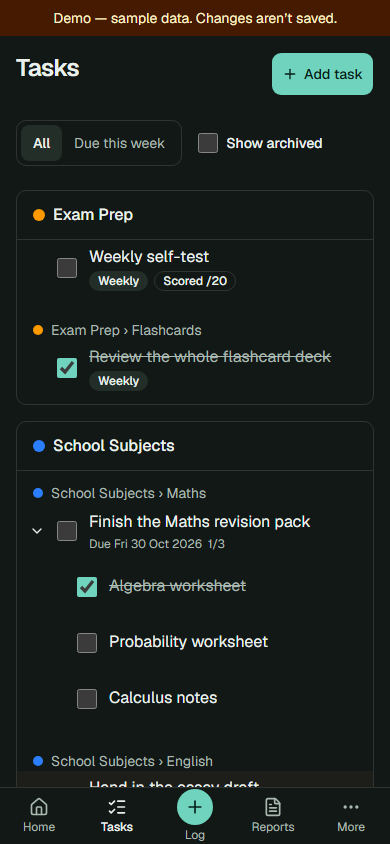
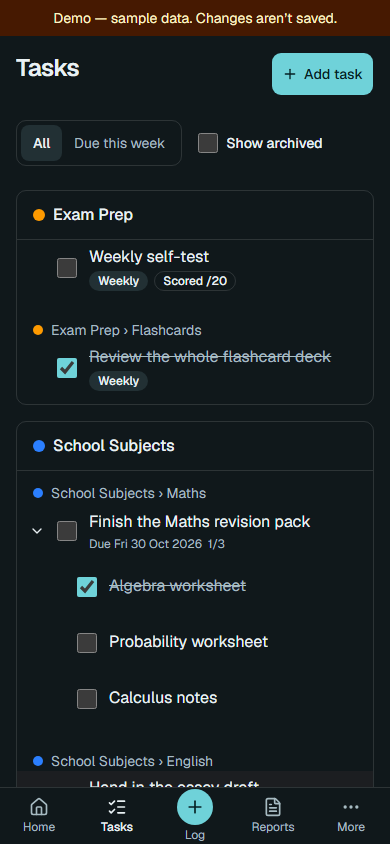
chore: cooler palette and AA-safe hover tints

diff --git a/src/index.css b/src/index.css
@@ -60,40 +60,40 @@
   --series-6: #008300;
   --series-7: #4a3aa7;
   --series-8: #e34948;
-  /* The Streakwise palette: warm paper and sand neutrals, deep teal for actions, pale mint as
-     the highlight. Every pair below meets WCAG AA (4.5:1) in both themes. */
-  --background: #fbf9f4;
-  --foreground: #1b2622;
+  /* The Streakwise palette: cool paper and slate neutrals, deep teal-cyan for actions, pale ice
+     blue as the highlight. Every pair below meets WCAG AA (4.5:1) in both themes. */
+  --background: #f7fafb;
+  --foreground: #16232a;
   --card: #ffffff;
-  --card-foreground: #1b2622;
+  --card-foreground: #16232a;
   --popover: #ffffff;
-  --popover-foreground: #1b2622;
-  --primary: #0c5f57;
-  --primary-foreground: #f4fbf8;
-  --secondary: #eee7da;
-  --secondary-foreground: #27332d;
-  --muted: #f2ede2;
-  --muted-foreground: #55635c;
-  --accent: #ddefe9;
-  --accent-foreground: #0d453f;
-  --destructive: #b02a22;
-  --border: #e4ded1;
-  --input: #d9d2c3;
-  --ring: #0c5f57;
+  --popover-foreground: #16232a;
+  --primary: #0e5f6e;
+  --primary-foreground: #f2fbfc;
+  --secondary: #e7eff2;
+  --secondary-foreground: #1f2f36;
+  --muted: #edf3f5;
+  --muted-foreground: #526570;
+  --accent: #dbedf1;
+  --accent-foreground: #0b404b;
+  --destructive: #a82232;
+  --border: #dde7ea;
+  --input: #d1dde1;
+  --ring: #0e5f6e;
   --chart-1: oklch(0.87 0 0);
   --chart-2: oklch(0.556 0 0);
   --chart-3: oklch(0.439 0 0);
   --chart-4: oklch(0.371 0 0);
   --chart-5: oklch(0.269 0 0);
   --radius: 0.625rem;
-  --sidebar: #f6f2e8;
-  --sidebar-foreground: #1b2622;
-  --sidebar-primary: #0c5f57;
-  --sidebar-primary-foreground: #f4fbf8;
-  --sidebar-accent: #e4efe9;
-  --sidebar-accent-foreground: #0d453f;
-  --sidebar-border: #e4ded1;
-  --sidebar-ring: #0c5f57;
+  --sidebar: #f2f7f9;
+  --sidebar-foreground: #16232a;
+  --sidebar-primary: #0e5f6e;
+  --sidebar-primary-foreground: #f2fbfc;
+  --sidebar-accent: #e2eef2;
+  --sidebar-accent-foreground: #0b404b;
+  --sidebar-border: #dde7ea;
+  --sidebar-ring: #0e5f6e;
 }
 
 @media (prefers-color-scheme: dark) {
@@ -106,37 +106,37 @@
     --series-6: #008300;
     --series-7: #9085e9;
     --series-8: #e66767;
-    --background: #111815;
-    --foreground: #eaf1ed;
-    --card: #18201d;
-    --card-foreground: #eaf1ed;
-    --popover: #18201d;
-    --popover-foreground: #eaf1ed;
-    --primary: #6fd3bd;
-    --primary-foreground: #08201c;
-    --secondary: #232e29;
-    --secondary-foreground: #eaf1ed;
-    --muted: #232e29;
-    --muted-foreground: #a9b9b1;
-    --accent: #22332d;
-    --accent-foreground: #d6f2e9;
-    --destructive: #ff8f86;
+    --background: #10181b;
+    --foreground: #e9f1f4;
+    --card: #172125;
+    --card-foreground: #e9f1f4;
+    --popover: #172125;
+    --popover-foreground: #e9f1f4;
+    --primary: #6fd2d9;
+    --primary-foreground: #062124;
+    --secondary: #223034;
+    --secondary-foreground: #e9f1f4;
+    --muted: #223034;
+    --muted-foreground: #a7bbc2;
+    --accent: #1f353b;
+    --accent-foreground: #d2f0f4;
+    --destructive: #ff8e9b;
     --border: oklch(1 0 0 / 12%);
     --input: oklch(1 0 0 / 18%);
-    --ring: #6fd3bd;
+    --ring: #6fd2d9;
     --chart-1: oklch(0.87 0 0);
     --chart-2: oklch(0.556 0 0);
     --chart-3: oklch(0.439 0 0);
     --chart-4: oklch(0.371 0 0);
     --chart-5: oklch(0.269 0 0);
-    --sidebar: #141c19;
-    --sidebar-foreground: #eaf1ed;
-    --sidebar-primary: #6fd3bd;
-    --sidebar-primary-foreground: #08201c;
-    --sidebar-accent: #22332d;
-    --sidebar-accent-foreground: #d6f2e9;
+    --sidebar: #131d21;
+    --sidebar-foreground: #e9f1f4;
+    --sidebar-primary: #6fd2d9;
+    --sidebar-primary-foreground: #062124;
+    --sidebar-accent: #1f353b;
+    --sidebar-accent-foreground: #d2f0f4;
     --sidebar-border: oklch(1 0 0 / 12%);
-    --sidebar-ring: #6fd3bd;
+    --sidebar-ring: #6fd2d9;
   }
 }
 

diff --git a/src/components/ui/button.tsx b/src/components/ui/button.tsx
@@ -8,7 +8,7 @@ const buttonVariants = cva(
   {
     variants: {
       variant: {
-        default: 'bg-primary text-primary-foreground hover:bg-primary/80',
+        default: 'bg-primary text-primary-foreground hover:bg-primary/90',
         outline:
           'border-border bg-background hover:bg-muted hover:text-foreground aria-expanded:bg-muted aria-expanded:text-foreground dark:border-input dark:bg-input/30 dark:hover:bg-input/50',
         secondary:
@@ -16,7 +16,7 @@ const buttonVariants = cva(
         ghost:
           'hover:bg-muted hover:text-foreground aria-expanded:bg-muted aria-expanded:text-foreground dark:hover:bg-muted/50',
         destructive:
-          'bg-destructive/10 text-destructive hover:bg-destructive/20 focus-visible:border-destructive/40 focus-visible:ring-destructive/20 dark:bg-destructive/20 dark:hover:bg-destructive/30 dark:focus-visible:ring-destructive/40',
+          'bg-destructive/10 text-destructive hover:bg-destructive/20 focus-visible:border-destructive/40 focus-visible:ring-destructive/20 dark:bg-destructive/20 dark:hover:bg-destructive/25 dark:focus-visible:ring-destructive/40',
         link: 'text-primary underline-offset-4 hover:underline',
       },
       size: {

diff --git a/src/components/ui/badge.tsx b/src/components/ui/badge.tsx
@@ -8,7 +8,7 @@ const badgeVariants = cva(
   {
     variants: {
       variant: {
-        default: 'bg-primary text-primary-foreground [a]:hover:bg-primary/80',
+        default: 'bg-primary text-primary-foreground [a]:hover:bg-primary/90',
         secondary: 'bg-secondary text-secondary-foreground [a]:hover:bg-secondary/80',
         destructive:
           'bg-destructive/10 text-destructive focus-visible:ring-destructive/20 dark:bg-destructive/20 dark:focus-visible:ring-destructive/40 [a]:hover:bg-destructive/20',

diff --git a/docs/PROGRESS.md b/docs/PROGRESS.md
@@ -182,12 +182,16 @@ decision).
 
 - **Accessibility:** `e2e/a11y.spec.ts` runs axe-core with the WCAG 2.1 A/AA rules over all eight
   screens, in light and dark, on the phone and desktop projects (32 checks). Tinted "overdue" rows
-  failed at first: light `--muted-foreground` is now `#55635c` and `--destructive` `#b02a22`, which
-  clears 4.5:1 on cards, muted backgrounds, and the 5–10% destructive tints.
-- **Palette (owner asked for a final colour scheme):** warm paper and sand neutrals, deep teal
-  (`#0c5f57`) for actions, pale mint for highlights, brick red for destructive actions; dark mode is
-  the same roles on a near-black green background with mint (`#6fd3bd`) as primary. Track and chart
-  palettes are unchanged. Every text/background pair measures 5.4:1–15.7:1.
+  failed at first: light `--muted-foreground` is now `#526570` and `--destructive` `#a82232`, which
+  clear 4.5:1 on cards, muted backgrounds, and the 5–10% destructive tints. The cooler teal also
+  pushed primary **hover** tints under 4.5:1 (the pointer rests on the Log link after navigation, so
+  axe saw it): primary buttons and badges now hover at `/90`, and the dark destructive hover is
+  `/25`.
+- **Palette (owner asked for a final colour scheme, then asked for it cooler):** cool paper and
+  slate neutrals, deep teal-cyan (`#0e5f6e`) for actions, pale ice blue for highlights, a cool brick
+  red for destructive actions; dark mode is the same roles on a near-black blue-green background
+  with aqua (`#6fd2d9`) as primary. Track and chart palettes are unchanged. Every text/background
+  pair measures 5.4:1–15.7:1.
 - **Delete/manage a track (owner asked for it):** a "Manage track" button on a track's page opens the
   existing node dialog, so rename, recolour, add a child, archive, restore, and delete (TREE-1–3,
   TREE-5) work without going through Settings → Structure. A successful delete returns to Tracks;
@@ -464,8 +468,8 @@ With D15, `SUPABASE_URL` / `SUPABASE_SECRET_KEY` are the same in every Netlify c
 
 ## Open questions for the owner
 
-- Is the new palette right for v1.0.0? Warm paper, sand, deep teal, and mint — easy to warm up or
-  cool down before R4.
+- Is the cooler palette right for v1.0.0? Cool paper, slate, teal-cyan, and ice blue — easy to
+  nudge warmer or cooler again before R4.
 - Say yes/no to R4 once the checklist passes (merge `develop` → `main`, then deploy production from
   `main`).
 - Should the Netlify entries stay in Supabase's URL configuration until R4, or be removed with the
@@ -473,10 +477,11 @@ With D15, `SUPABASE_URL` / `SUPABASE_SECRET_KEY` are the same in every Netlify c
 
 ## Decisions made during the build
 
-- M8: the final palette is warm paper and sand neutrals with deep teal for actions, pale mint for
-  highlights, and brick red for destructive actions; dark mode swaps the same roles on a near-black
-  green background. Track and score-chart colours stay separate (`--series-*`), so a theme change
-  never re-colours someone's data.
+- M8: the final palette is cool paper and slate neutrals with deep teal-cyan for actions, pale ice
+  blue for highlights, and a cool brick red for destructive actions; dark mode swaps the same roles
+  on a near-black blue-green background (the owner asked for it cooler than the first version).
+  Track and score-chart colours stay separate (`--series-*`), so a theme change never re-colours
+  someone's data.
 - M8: contrast is enforced by axe-core in the e2e suite (all 8 screens × light/dark × phone/desktop)
   rather than by eye or by unit tests, because it measures the real computed colours.
 - M8: a track is managed from its own page ("Manage track" → the existing `NodeDialog`), so the

diff --git a/docs/SPEC.md b/docs/SPEC.md
@@ -684,7 +684,7 @@ sharing, demo, polish) and can resume at any time from docs/PROGRESS.md.
 | D18 | **General sample tracks (owner's request, 2026-10-09):** the seed for new accounts and the demo use Exam Prep (Flashcards, Practice), School Subjects (Maths, English), and Online Course, with a scored "Weekly self-test". The owner's own track names appear nowhere in the code, docs, or tests. Existing accounts keep their data. | The app is public; the starter tracks should suit any student, multitasker, or high achiever, and not reveal the owner's studies |
 | D19 | **Single-user leftovers removed (2026-10-10, as planned in D17):** after the owner claimed the old data, migration `0004` makes `user_id` required on every data table and drops the old `settings` table, the old RPCs, and the claim functions. The code drops the old-passcode form, `/api/auth/passcode`, the `sw_claim` cookie, and `APP_PASSCODE`; `MCP_SECRET` was already unused since D17. | Nothing is left to claim; fewer moving parts and no secret that no longer does anything |
 | D20 | **Hosting moves from Netlify to Vercel's free Hobby plan (owner's decision, 2026-10-10).** R3a was the last Netlify release. Vercel charges nothing per deploy (about 100 deployments a day on Hobby, 1M function requests a month) and fits the app's non-commercial use; limits: runtime logs kept 1 hour, non-commercial personal use only. The server moves to one deployed function (`api/server.ts`) that dispatches `/api/*`, `/auth/*`, `/mcp/*`, `/.well-known/*` to the unchanged handlers. Releases still need the owner's OK (OPS-4); R4 (v1.0.0) is the first Vercel release. | No deployment budget; Netlify credits were nearly exhausted, and Vercel's free limits are far above this app's traffic |
-| D21 | **Final colours and track management (owner's requests, 2026-10-25).** The v1.0.0 theme is warm paper and sand neutrals, deep teal for actions, pale mint for highlights, and brick red for destructive actions, with the same roles inverted in dark mode (the theme still follows the system setting). Track and score-chart colours keep their own validated palette. A track's page has a **Manage track** button that opens the same node dialog as Settings → Structure, so rename, recolour, add a child, archive, restore, and delete live where the track is (TREE-1–3, TREE-5). | The owner asked for a nicer, cohesive colour scheme for the final version, and for a way to delete a track without digging through Settings |
+| D21 | **Final colours and track management (owner's requests, 2026-10-25).** The v1.0.0 theme is cool paper and slate neutrals, deep teal-cyan for actions, pale ice blue for highlights, and a cool brick red for destructive actions, with the same roles inverted in dark mode (the theme still follows the system setting); the owner asked for the first version to be cooler. Track and score-chart colours keep their own validated palette. A track's page has a **Manage track** button that opens the same node dialog as Settings → Structure, so rename, recolour, add a child, archive, restore, and delete live where the track is (TREE-1–3, TREE-5). | The owner asked for a nicer, cohesive colour scheme for the final version, and for a way to delete a track without digging through Settings |
 
 ## B16. Out of scope
 

diff --git a/docs/architecture.md b/docs/architecture.md
@@ -61,9 +61,9 @@ seed (`services/seed.ts`); component tests use that seed too (`fakeApi`).
 ## Theme and accessibility (M8)
 
 - **One set of design tokens.** Colours are CSS custom properties in `src/index.css`
-  (Tailwind v4 `@theme inline`), so every shadcn/ui component picks them up. The palette is warm
-  paper and sand neutrals, deep teal for actions, pale mint for highlights, and brick red for
-  destructive actions. Dark mode swaps the same token names inside
+  (Tailwind v4 `@theme inline`), so every shadcn/ui component picks them up. The palette is cool
+  paper and slate neutrals, deep teal-cyan for actions, pale ice blue for highlights, and a cool
+  brick red for destructive actions. Dark mode swaps the same token names inside
   `@media (prefers-color-scheme: dark)`, following the system setting (no manual switch, SPEC §B11);
   printing overrides them again for black text on white.
 - **Charts keep their own colours.** The eight `--series-*` values are a separate categorical
